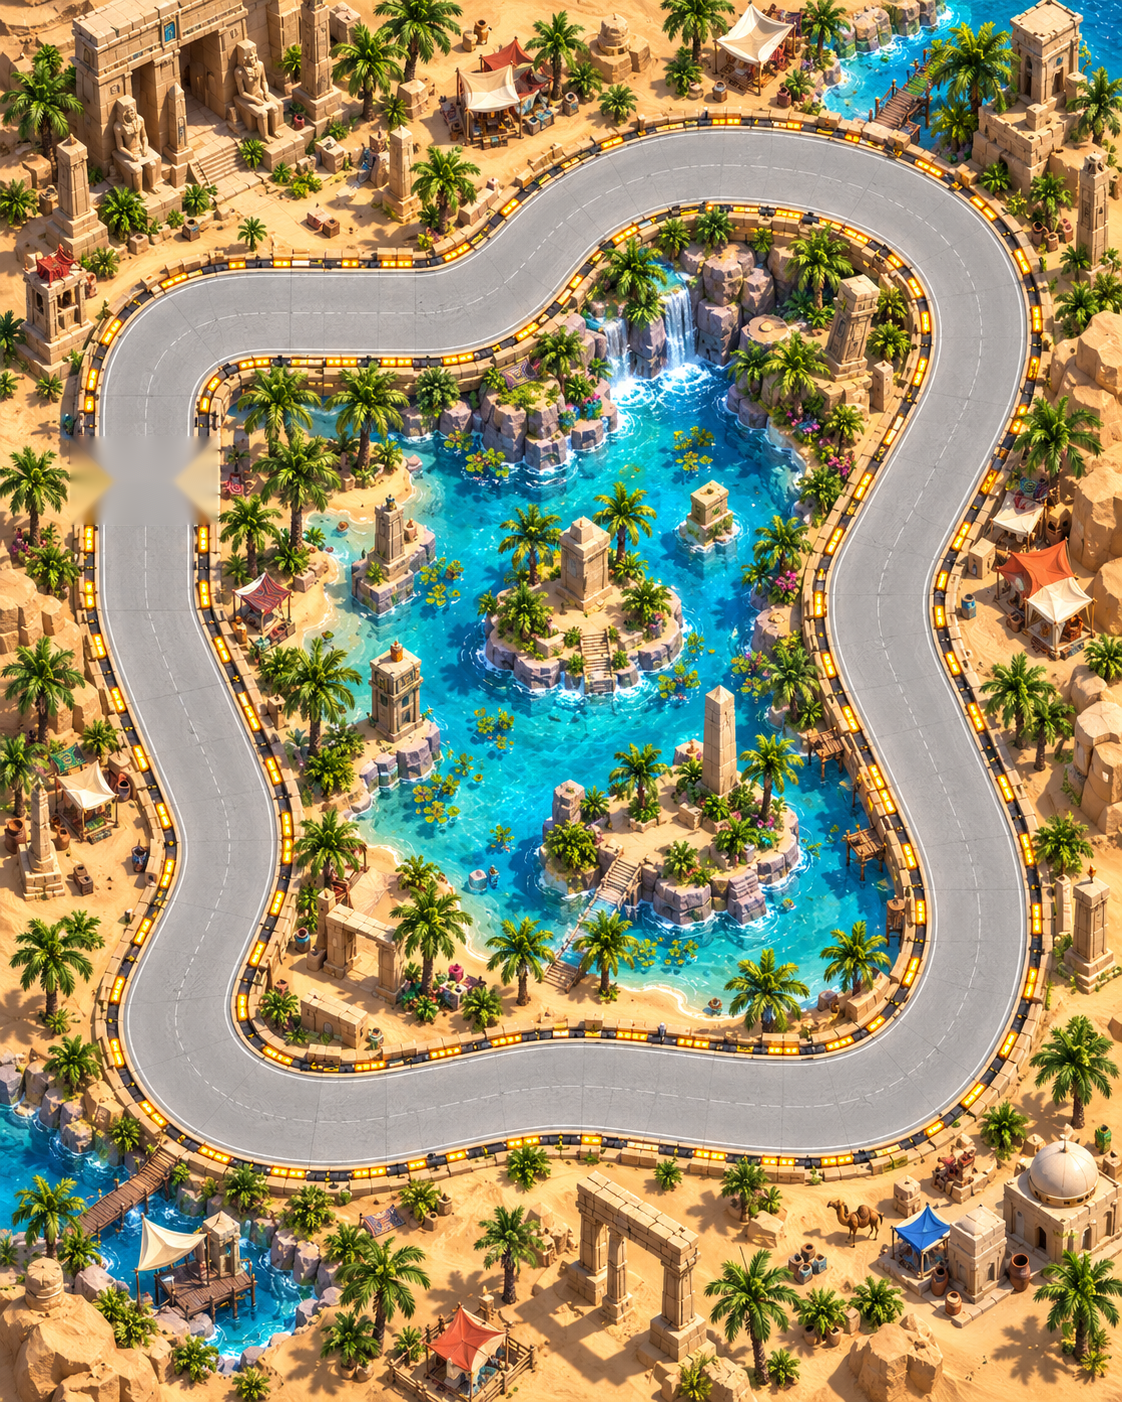
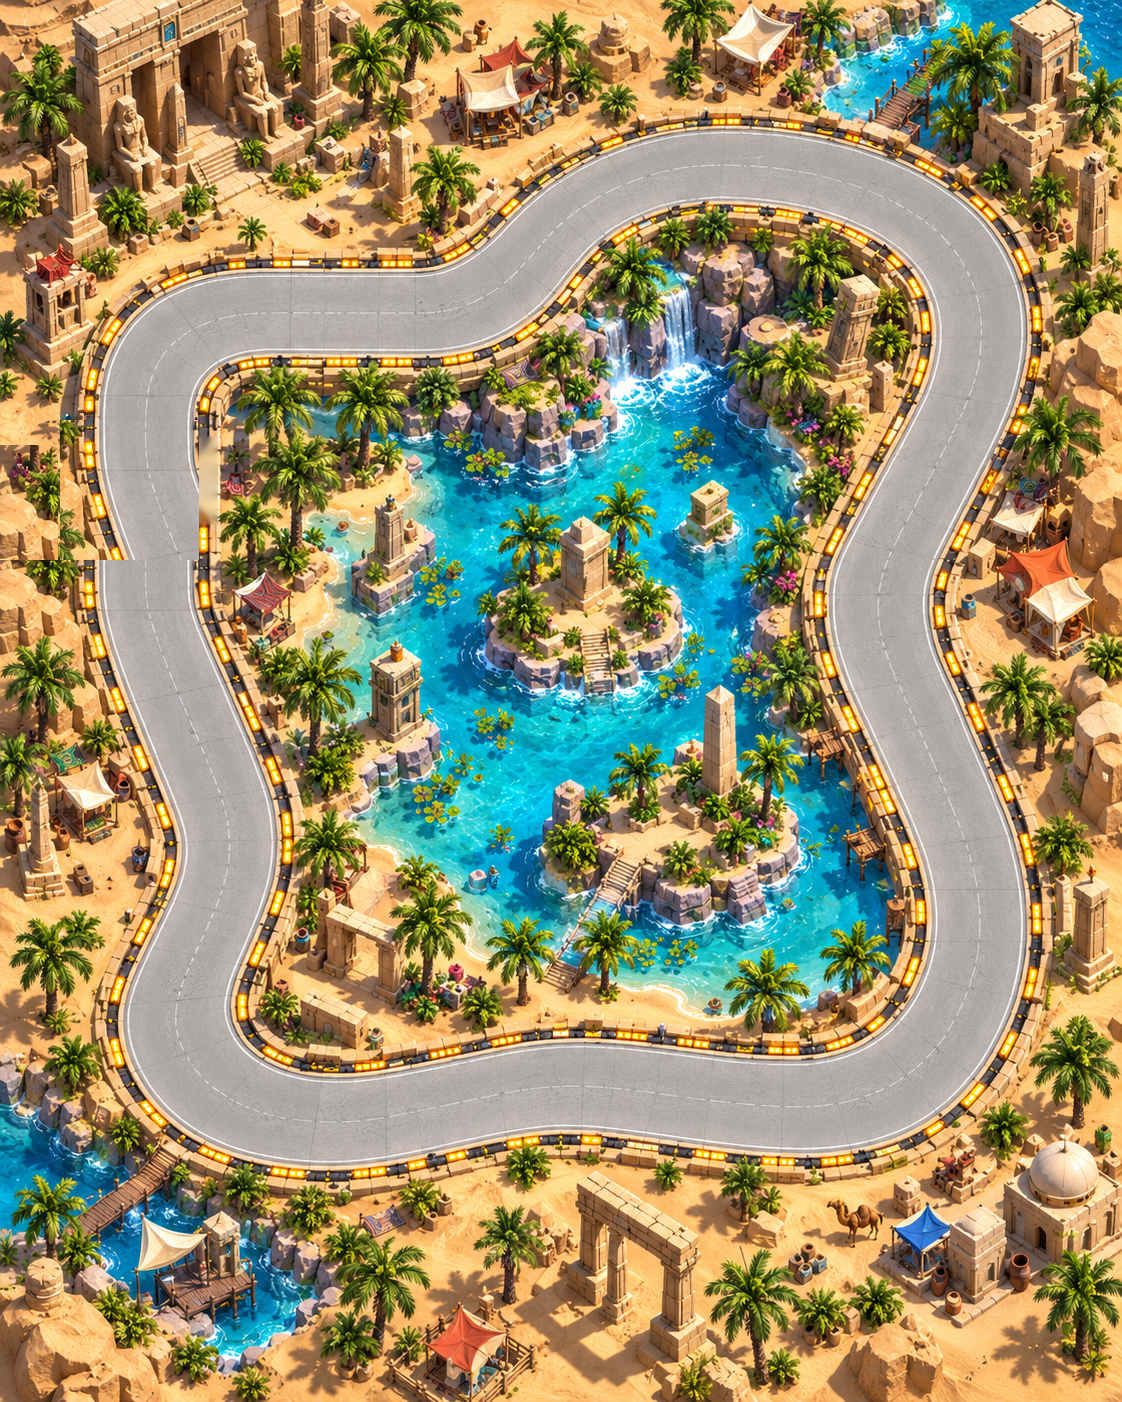
Add files via upload

Changed region(s): [[0.0, 0.276, 0.1248, 0.3987], [0.156, 0.3067, 0.1872, 0.3987]]

diff --git a/game.js b/game.js
@@ -27,7 +27,7 @@
   const STUN_MS = 0;
   const INV_MS = 0;
   const CAMERA_ZOOM = 3.00;
-  const BUILD_ID = "v7.893";
+  const BUILD_ID = "v7.894";
 window.__OBSERVER_FM_BUILD__ = BUILD_ID;
 
   const RACER_KEYS=["A","B","C","D","E","F","G","H"];
@@ -6719,6 +6719,62 @@ applyMapSet776();
     }
   }
   applyPatch7893();
+
+
+  // ============================================================
+  // v7.894 — Star Fish stall guard + Black Hole single yellow gate + Desert cleanup
+  // 1) Star Fish: use a safer, more center-biased authoritative racing spline and
+  //    a slightly wider legal ribbon so touching the visual wall no longer makes
+  //    racers appear to stall or pin in place.
+  // 2) Black Hole: refresh the runtime artwork to the fully single-yellow version.
+  // 3) Desert Oasis: refresh the cleaned artwork so the start-side mosaic is gone.
+  // ============================================================
+  function applyPatch7894(){
+    const star=MAP_DEFINITIONS_770.star_fish;
+    if(star){
+      star.image="map_star_fish_791.png?v=791-approved-art";
+      star.widths770=new Array(Math.max(1,(star.route770||[]).length-1)).fill(9.6);
+      star.strictRoadFollow778=true;
+      star.roadFollowMode778="route-center-hard";
+      star.edgePassThrough786=true;
+      star.wallCollision786=false;
+      star.edgeFlow785=true;
+      star.outerSoftLimit789=true;
+      const nodes=[
+        [86.000,28.600],[98.600,44.800],[112.200,57.800],[132.900,60.000],
+        [124.200,74.600],[115.600,88.400],[123.600,118.000],[111.000,116.200],
+        [95.200,108.600],[77.200,108.600],[58.300,118.000],[52.800,105.800],
+        [56.400,88.800],[42.100,71.100],[43.700,60.300],[63.000,58.500],
+        [76.400,44.400],[86.000,28.600]
+      ];
+      const line=densifyLine772(nodes,.30);
+      star.racingSpline770=line;
+      star.globalOptimal770=line;
+      star.racingLineMode772="stall-guard-centerline-v7.894";
+      star.optimizedSplineAuthority783=true;
+      star.shortestLegal783=true;
+      star.safeShortest784=true;
+      star.stallProofSpline784=true;
+      star.lockOptimalExecution784=true;
+      star.wallHugFix786=true;
+      star.minimumVisualEdgeClearance786=2.8;
+      star.starFishStallFix894=true;
+    }
+
+    const black=MAP_DEFINITIONS_770.double_hairpin;
+    if(black){
+      black.image="map_black_hole_776.png?v=7894-single-yellow-clean";
+      black.leftDuplicateGateRemoved892=true;
+      black.blackHoleSingleYellow894=true;
+    }
+
+    const desert=MAP_DEFINITIONS_770.desert_oasis;
+    if(desert){
+      desert.image="map_desert_oasis_776.png?v=7894-start-mosaic-clean";
+      desert.desertStartClean894=true;
+    }
+  }
+  applyPatch7894();
 
 
   function enforceHardForbidden780(p,oldX,oldY){

diff --git a/index.html b/index.html
@@ -6,7 +6,7 @@
   <meta http-equiv="Expires" content="0">
   <meta charset="utf-8">
   <meta name="viewport" content="width=device-width,initial-scale=1">
-  <title>Observer Avoid FM v7.893 — Mosaic Cleanup + Heart Fix + Tighter Black Hole</title>
+  <title>Observer Avoid FM v7.894 — StarFish Fix + BlackHole Single Gate + Desert Cleanup</title>
   <link rel="stylesheet" href="style.css">
 
   <style id="mapSelectStyle774">
@@ -226,6 +226,6 @@
     </div>
   </div>
 
-  <script src="game.js?v=7.893-mosaic-heart-blackhole"></script>
+  <script src="game.js?v=7.894-starfish-blackhole-desert"></script>
 </body>
 </html>
